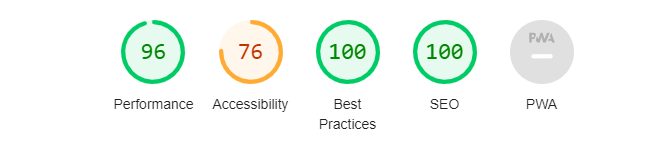
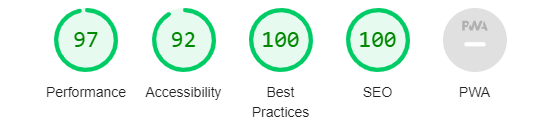
Fix aria-label for buttons and inputs, and replace h5 form footer with p for performance improve

diff --git a/coaches.html b/coaches.html
@@ -68,7 +68,7 @@
                                 <i class="fab fa-instagram-square"></i></a></li>
 
                     </ul>
-                    <button  class="btn" onclick="window.location.href='https://www.facebook.com/calin.brehaita';">
+                    <button  class="btn" aria-label="contact"  onclick="window.location.href='https://www.facebook.com/calin.brehaita';">
                             Contact
                         </button>
 
@@ -87,7 +87,7 @@
                                 <i class="fab fa-instagram-square"></i></a></li>
 
                     </ul>
-                    <button class="btn" onclick="window.location.href='https://www.facebook.com/calin.brehaita';" >
+                    <button class="btn" aria-label="contact" onclick="window.location.href='https://www.facebook.com/calin.brehaita';" >
                             Contact
                         </button>
 
@@ -106,7 +106,7 @@
                                 <i class="fab fa-instagram-square"></i></a></li>
 
                     </ul>
-                    <button class="btn" onclick="window.location.href='https://www.facebook.com/calin.brehaita';">
+                    <button class="btn" aria-label="contact" onclick="window.location.href='https://www.facebook.com/calin.brehaita';">
                             Contact
                         </button>
 
@@ -125,7 +125,7 @@
                                 <i class="fab fa-instagram-square"></i></a></li>
 
                     </ul>
-                    <button class="btn" onclick="window.location.href='https://www.facebook.com/calin.brehaita';">
+                    <button class="btn" aria-label="contact" onclick="window.location.href='https://www.facebook.com/calin.brehaita';">
                             Contact
                         </button>
 
@@ -144,7 +144,7 @@
                                 <i class="fab fa-instagram-square"></i></a></li>
 
                     </ul>
-                    <button class="btn" onclick="window.location.href='https://www.facebook.com/calin.brehaita';">
+                    <button class="btn" aria-label="contact" onclick="window.location.href='https://www.facebook.com/calin.brehaita';">
                             Contact
                         </button>
 
@@ -163,7 +163,7 @@
                                 <i class="fab fa-instagram-square"></i></a></li>
 
                     </ul>
-                    <button class="btn" onclick="window.location.href='https://www.facebook.com/calin.brehaita';">
+                    <button class="btn" aria-label="contact" onclick="window.location.href='https://www.facebook.com/calin.brehaita';">
                             Contact
                         </button>
 
@@ -207,7 +207,7 @@
                     <div class="form-block">
                         <form action="https://formdump.codeinstitute.net/" method="post">
 
-                            <input type="email" id="email" name="email" value="Email"><br><br><br><br>
+                            <input type="email" id="email" aria-label="email" name="email" value="Email"><br><br><br><br>
 
 
 
@@ -223,8 +223,8 @@
             <section class="footer-bottom">
 
                 <div class="copyright">
-                    <h5>@2022 Irishbodybuilding, Ireland. The website content is for Educational & Training
-                        purpouse only. </h5>
+                    <p>@2022 Irishbodybuilding, Ireland. The website content is for Educational & Training
+                        purpouse only. </p>
 
                 </div>
 

diff --git a/contact_us.html b/contact_us.html
@@ -76,11 +76,11 @@
                 <form action="https://formdump.codeinstitute.net/" method="post">
                 <h3 class="contact_title">Get in Touch</h3>
 
-                <input type="text" placeholder="Your Name">
-                <input type="email" placeholder="Your Email">
+                <input type="text" aria-label="name" placeholder="Your Name">
+                <input type="email" aria-label="email" placeholder="Your Email">
 
                 <textarea name="query" id="query" cols="30" rows="5" placeholder="Enter Your Query"></textarea>
-                <button class="btn_contact" onclick="window.location.href='#';">
+                <button class="btn_contact" aria-label="send" onclick="window.location.href='#';">
                     Send
                 </button>
                 </form>
@@ -140,7 +140,7 @@
                 <div class="form-block">
                     <form action="https://formdump.codeinstitute.net/" method="post">
 
-                        <input type="email" id="email" name="email" value="Email"><br><br><br><br>
+                        <input type="email" id="email"  aria-label="email" name="email" value="Email"><br><br><br><br>
 
 
 
@@ -156,8 +156,8 @@
         <section class="footer-bottom">
 
             <div class="copyright">
-                <h5>@2022 Irishbodybuilding, Ireland. The website content is for Educational & Training
-                    purpouse only. </h5>
+                <p>@2022 Irishbodybuilding, Ireland. The website content is for Educational & Training
+                    purpouse only. </p>
 
             </div>
 

diff --git a/gallery.html b/gallery.html
@@ -143,7 +143,7 @@
                     <div class="form-block">
                         <form action="https://formdump.codeinstitute.net/" method="post">
 
-                            <input type="email" id="email" name="email" value="Email"><br><br><br><br>
+                            <input type="email" id="email" aria-label="email" name="email" value="Email"><br><br><br><br>
 
 
 
@@ -159,8 +159,8 @@
             <section class="footer-bottom">
 
                 <div class="copyright">
-                    <h5>@2022 Irishbodybuilding, Ireland. The website content is for Educational & Training
-                        purpouse only. </h5>
+                    <p>@2022 Irishbodybuilding, Ireland. The website content is for Educational & Training
+                        purpouse only. </p>
 
                 </div>
 

diff --git a/index.html b/index.html
@@ -230,7 +230,7 @@
                     <div class="form-block">
                         <form action="https://formdump.codeinstitute.net/" method="post">
 
-                            <input type="email" id="email" name="email" value="Email"><br><br><br><br>
+                            <input type="email" id="email" aria-label="email" name="email" value="Email"><br><br><br><br>
 
 
 
@@ -246,8 +246,8 @@
             <section class="footer-bottom">
 
                 <div class="copyright">
-                    <h5>@2022 Irishbodybuilding, Ireland. The website content is for Educational & Training
-                        purpouse only. </h5>
+                    <p>@2022 Irishbodybuilding, Ireland. The website content is for Educational & Training
+                        purpouse only. </p>
 
                 </div>
 

diff --git a/calendar.html b/calendar.html
@@ -253,8 +253,8 @@
         <section class="footer-bottom">
 
             <div class="copyright">
-                <h5>@2022 Irishbodybuilding, Ireland. The website content is for Educational & Training
-                    purpouse only. </h5>
+                <p>@2022 Irishbodybuilding, Ireland. The website content is for Educational & Training
+                    purpouse only. </p>
 
             </div>
 
